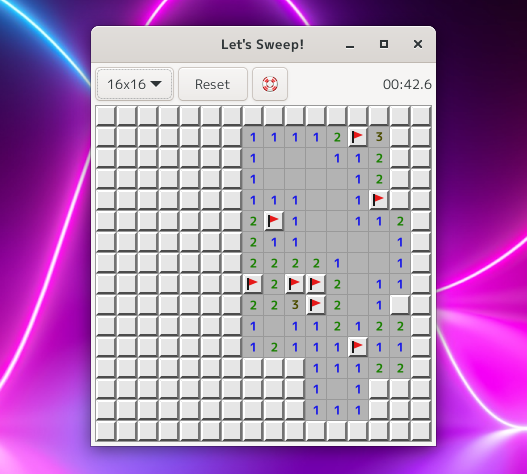
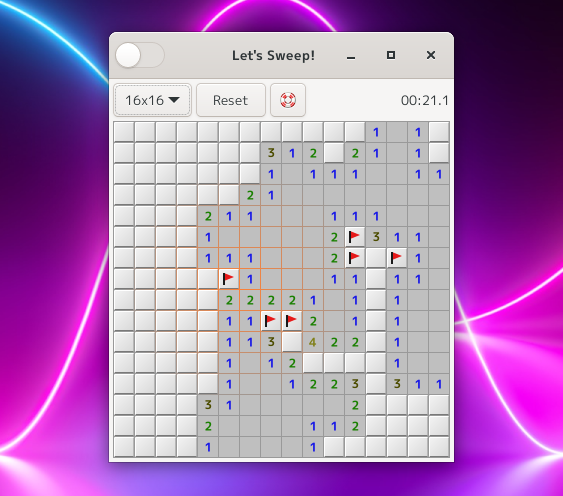
Add Dark Mode and Update README

diff --git a/README.md b/README.md
@@ -5,6 +5,26 @@ Aho-Sweeper
 
 ![画像](etc/screenshot-1.png)
 
+### 3段階の難易度
+#### ビギナー向け
+
+![画像](etc/screenshot-3.png)
+
+#### 中級者向け
+
+![画像](etc/screenshot-1.png)
+
+#### 上級者向け
+
+![画像](etc/screenshot-4.png)
+
+### ダークモード
+ダークモードはじめました。
+
+![画像](etc/screenshot-2.png)
+
+非常に見にくくてイライラに耐えながらやるので難易度が高いという予想外のゲーム性が追加されました。
+
 インストール方法
 ----------------------------------------------------------------------------------------------------
 ### ビルド
@@ -16,7 +36,6 @@ Aho-Sweeper
 
 コンパイル手順は以下になります。
 
-
 1. プロジェクトのルートディレクトリで作業をします。
 
        $ meson --prefix=/usr/local build
@@ -27,15 +46,13 @@ Aho-Sweeper
 
        $ sudo ninja install
 
-
 ### コンパイル済みファイルをダウンロードする
 以下のGoogleドライブのリンクからコンパイル済み実行ファイルをダウンロードできます。
 
-<https://drive.google.com/file/d/1skdtgHI0yT-lY6pimElt39Kpfa4aLp3x/view?usp=sharing>
+<https://drive.google.com/file/d/16VJxWSyXc9MBuM29tx2-cEvAm51hDg48/view?usp=sharing>
 
-
-MD5SUM: 488b31c9bfd5ecaccf676550aea65132
-SHA256SUM: 86be9fdb954594ab3b811cba47a26ef92d07a722c8f3564414cb5ed3df8c32d4
+MD5SUM: 6727c039760eb82900fdd4698f66e6ca
+SHA256SUM: 57d5dd115b5559aaeece77bb1d8209030e800c8a3ba4b4cf8fad69ced8e32b99
 
 実行権限を与えた上、おそらくアイコンをクリックしても実行できないので残念ですがコマンドラインから実行
 してください。
